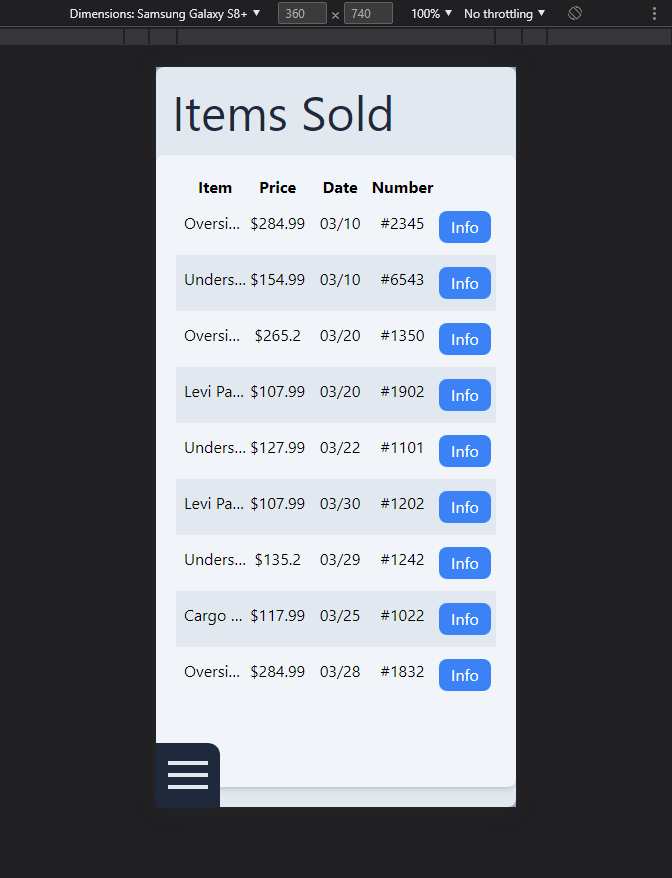
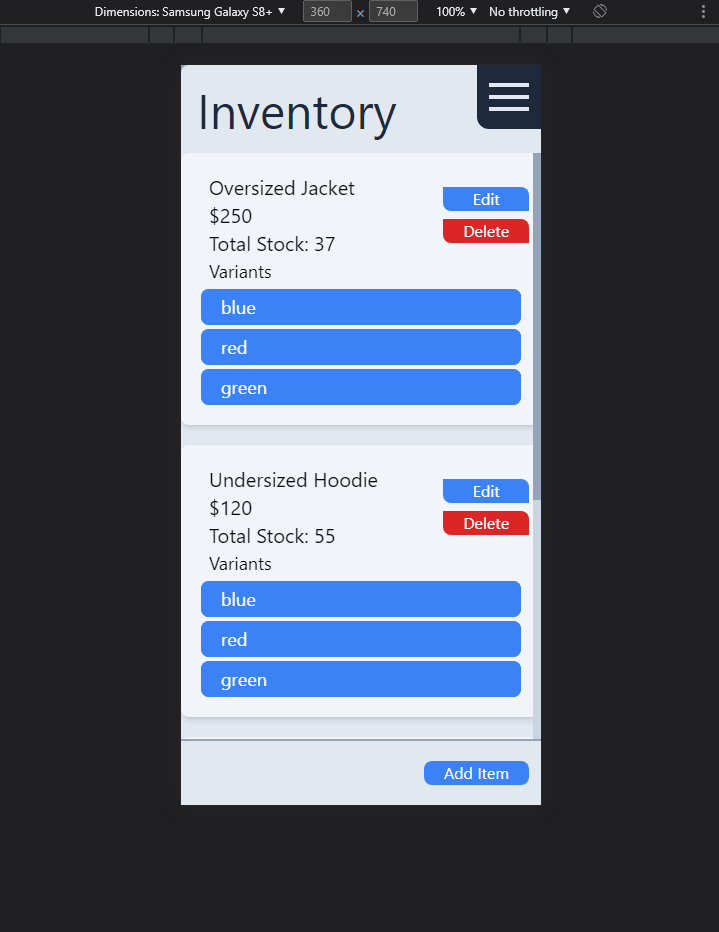
Updating sidebar location on mobile

Changed region(s): [[0.2188, 0.0615, 0.7812, 0.9226], [0.0938, 0.0, 0.875, 0.0308], [0.9688, 0.0, 1.0, 0.0308]]

diff --git a/client/src/components/SideBar/MobileSideBar.js b/client/src/components/SideBar/MobileSideBar.js
@@ -8,7 +8,7 @@ export default function MobileSideBar() {
     <>
       <button
         onClick={() => setShowNavigtion(!showNavigation)}
-        className="md:hidden absolute flex bottom-0 z-50 bg-slate-800 text-white p-3 rounded-tr-xl w-16 h-16 items-center justify-center"
+        className="md:hidden absolute flex top-0 right-0 z-50 bg-slate-800 text-white p-3 rounded-bl-xl w-16 h-16 items-center justify-center"
       >
         <div className="flex flex-col w-full h-full items-center justify-center">
           <div
@@ -37,8 +37,8 @@ export default function MobileSideBar() {
       <section
         className={
           showNavigation
-            ? "absolute md:hidden flex-col bottom-0 bg-slate-800 w-16 h-2/3 z-40 mb-10 items-center justify-center rounded-tr-lg duration-500"
-            : "absolute md:hidden flex-col bottom-0 w-0 bg-slate-800 h-2/3  z-40 mb-10 items-center justify-center rounded-tr-lg duration-500"
+            ? "absolute md:hidden flex-col top-0 right-0 bg-slate-800 w-16 h-2/3 z-40 mb-10 items-center justify-center rounded-bl-lg duration-500"
+            : "absolute md:hidden flex-col top-0 right-0 w-0 bg-slate-800 h-2/3  z-40 mb-10 items-center justify-center rounded-bl-lg duration-500"
         }
       >
         <section
@@ -51,7 +51,7 @@ export default function MobileSideBar() {
           <Link
             onClick={() => setShowNavigtion(!showNavigation)}
             to={{ pathname: "/" }}
-            className="flex flex-col items-center justify-center w-11/12 h-full mb-10"
+            className="flex flex-col items-center justify-center w-11/12 h-full mt-14"
           >
             <img
               className="w-10"
@@ -63,7 +63,7 @@ export default function MobileSideBar() {
           <Link
             onClick={() => setShowNavigtion(!showNavigation)}
             to={{ pathname: "/inventory" }}
-            className="flex flex-col items-center justify-center w-11/12 h-full mb-10"
+            className="flex flex-col items-center justify-center w-11/12 h-full mt-5"
           >
             <img
               className="w-10"
@@ -75,7 +75,7 @@ export default function MobileSideBar() {
           <Link
             onClick={() => setShowNavigtion(!showNavigation)}
             to={{ pathname: "/sold" }}
-            className="flex flex-col items-center justify-center w-11/12 h-full mb-10"
+            className="flex flex-col items-center justify-center w-11/12 h-full mt-5"
           >
             <img
               className="w-10"
@@ -87,7 +87,7 @@ export default function MobileSideBar() {
           <Link
             onClick={() => setShowNavigtion(!showNavigation)}
             to={{ pathname: "/user" }}
-            className="flex flex-col items-center justify-center w-11/12 h-full mb-10"
+            className="flex flex-col items-center justify-center w-11/12 h-full mt-5"
           >
             <img
               className="w-10"
@@ -99,7 +99,7 @@ export default function MobileSideBar() {
           <Link
             onClick={() => setShowNavigtion(!showNavigation)}
             to={{ pathname: "/stats" }}
-            className="flex flex-col items-center justify-center w-11/12 h-full mb-10"
+            className="flex flex-col items-center justify-center w-11/12 h-full mt-5 mb-5"
           >
             <img
               className="w-10"

diff --git a/client/src/pages/UserPage.js b/client/src/pages/UserPage.js
@@ -26,7 +26,7 @@ export default function UserPage() {
   }, []);
 
   if (loading) {
-    return <LoadingDefault title={"Items Sold"} />;
+    return <LoadingDefault title={"Users"} />;
   }
 
   return (
@@ -34,7 +34,7 @@ export default function UserPage() {
       {modal && <OrderModal setToggle={setModal} id={modalItem} />}
       <section className="flex flex-col w-full h-full items-center justify-center bg-slate-200 md:rounded-tr-xl md:rounded-br-xl md:rounded-tl-none md:rounded-bl-none rounded-lg">
         <h1 className="flex text-5xl text-slate-800 text-left w-full pt-5 mb-5 md:pl-8 pl-4">
-          User Accounts
+          Users
         </h1>
         <div className="flex flex-col md:w-[98%] w-full h-[95%] items-center mb-5 bg-slate-100 p-5 rounded-lg shadow-md overflow-y-auto scrollbar-thin scrollbar-thumb-slate-400 scrollbar-track-slate-300 md:pb-0 pb-[72px]">
           <div className="flex flex-col mb-5 w-full">

diff --git a/README.md b/README.md
@@ -335,10 +335,11 @@ At the bottom of the page is where you will find the stock numbers of all the in
 
 ## Usage - Mobile
 
-While there aren't a lot of discrepancies between the desktop and mobile versions of the application there are a slight few.
+While there aren't a lot of discrepancies between the desktop and mobile versions of the application there is one big difference.
 
 ![Mobile View Inventory page](client/public/images/MobileView1.PNG)
-The main difference is going to be that the sidebar is now hidden and is controlled by a button in the lower left hand corner. Clicking this button will open up the sidebar and you can navigate through the pages from there.
+
+The sidebar is now hidden and is controlled by a button in the top right hand corner. Clicking this button will open up the sidebar and you can navigate through the pages from there.
 
 ![Mobile View Inventory page with opened sidebar](client/public/images/MobileView2.PNG)
 
